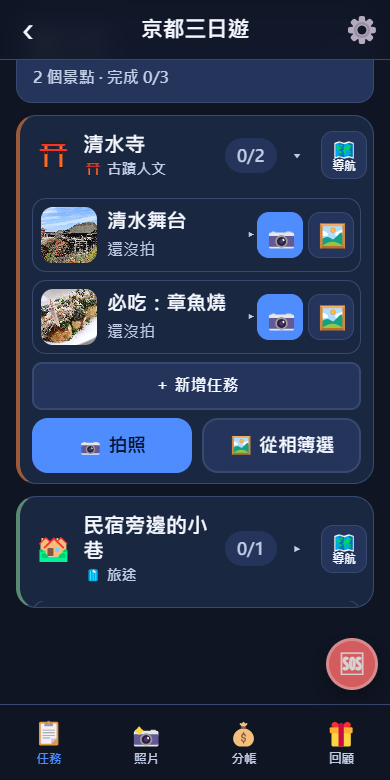
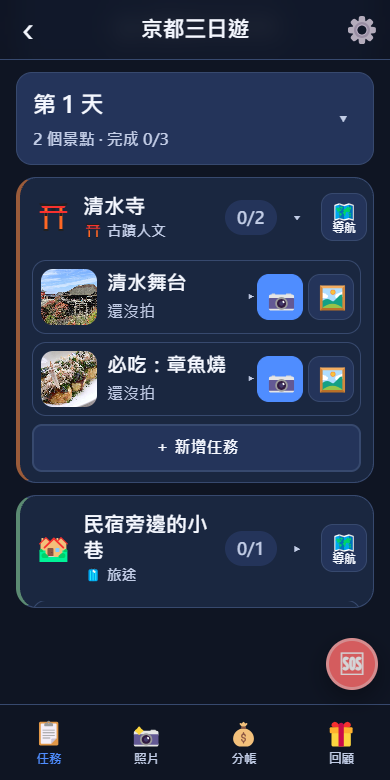
v1.74.1 留白卡片的加照片兩顆在手機寬度並排
v1.74.0 推上去之後，實機寬度（390px）量到「📷 拍照／🖼 從相簿選」被擠成上下排，
那一列高 262px。基準寬度改成 7em（跟著使用者的字級走）：390px 並排、各 140px，
整列 110px；320px 與特大字仍然自動換成上下排，不會把字折成兩行。

CSS 進 SW 的 SHELL 而且是 cache-first 釘在版本上，所以必須 bump VERSION，
不然已經裝上 v1.74.0 的人永遠拿不到這次的樣式。

測試：底線＋受影響 15/46 支綠（layouttest 204 種組合零問題）。
截圖：screenshots/features/v1740-*。

Changed region(s): [[0.0308, 0.0615, 0.9846, 0.7077]]

diff --git a/css/style.css b/css/style.css
@@ -1719,7 +1719,7 @@ textarea.field { resize: vertical; line-height: 1.6; }
 .qline-add .addphoto-row { margin-top: 0; flex-wrap: wrap; }
 /* 基準寬度用 em 不用 px：字級放大時它跟著放大，所以「特大字＋360px」會自己換成上下排，
    而不是把「🖼 從相簿選」折成兩行（layouttest 在 320px/m 與 360px/xl 各抓到一次）。 */
-.qline-add .addphoto-row .btn { min-height: 48px; font-size: 1rem; flex: 1 1 9em; }
+.qline-add .addphoto-row .btn { min-height: 48px; font-size: 1rem; flex: 1 1 7em; }
 
 /* ---------- 任務列（收合 88px，點開才給大圖） ---------- */
 /* 之前每張卡固定 414px，一個螢幕只放得下 1.7 個任務，五個任務的景點要滑 2300px。*/

diff --git a/sw.js b/sw.js
@@ -3,7 +3,7 @@
  * - 導覽請求：network-first，離線時回退 index.html
  * - 維基百科等跨網域請求：不快取、直接 network（失敗就失敗，非關鍵路徑）
  */
-const VERSION = 'tripquest-v1.74.0';
+const VERSION = 'tripquest-v1.74.1';
 const SHELL = `${VERSION}-shell`;
 // 內建配樂：獨立快取、跨版本保留（檔名即版本，內容不會變）—— 15MB 不進 SHELL，
 // 不預快取、點了才下載；升版不重抓。
